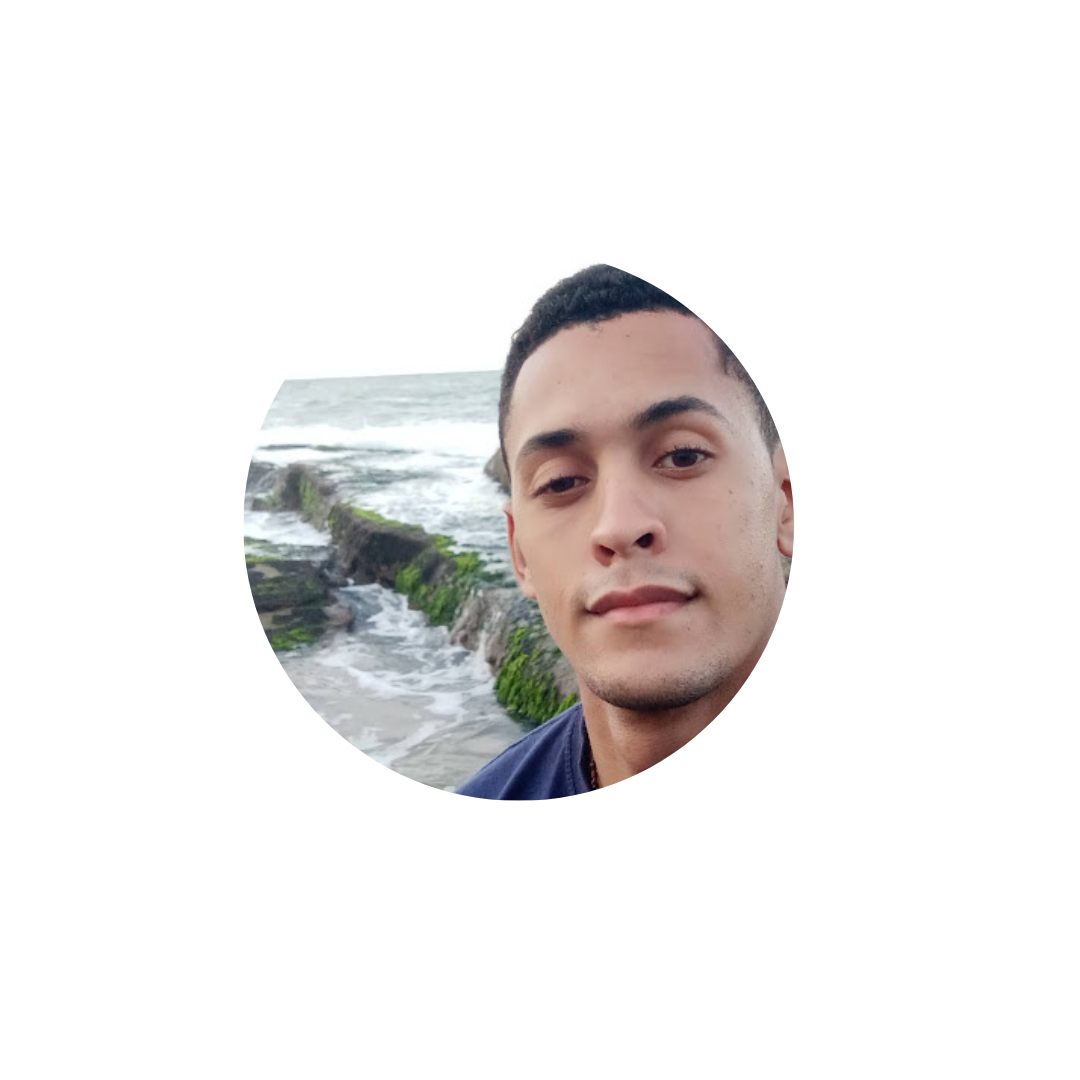
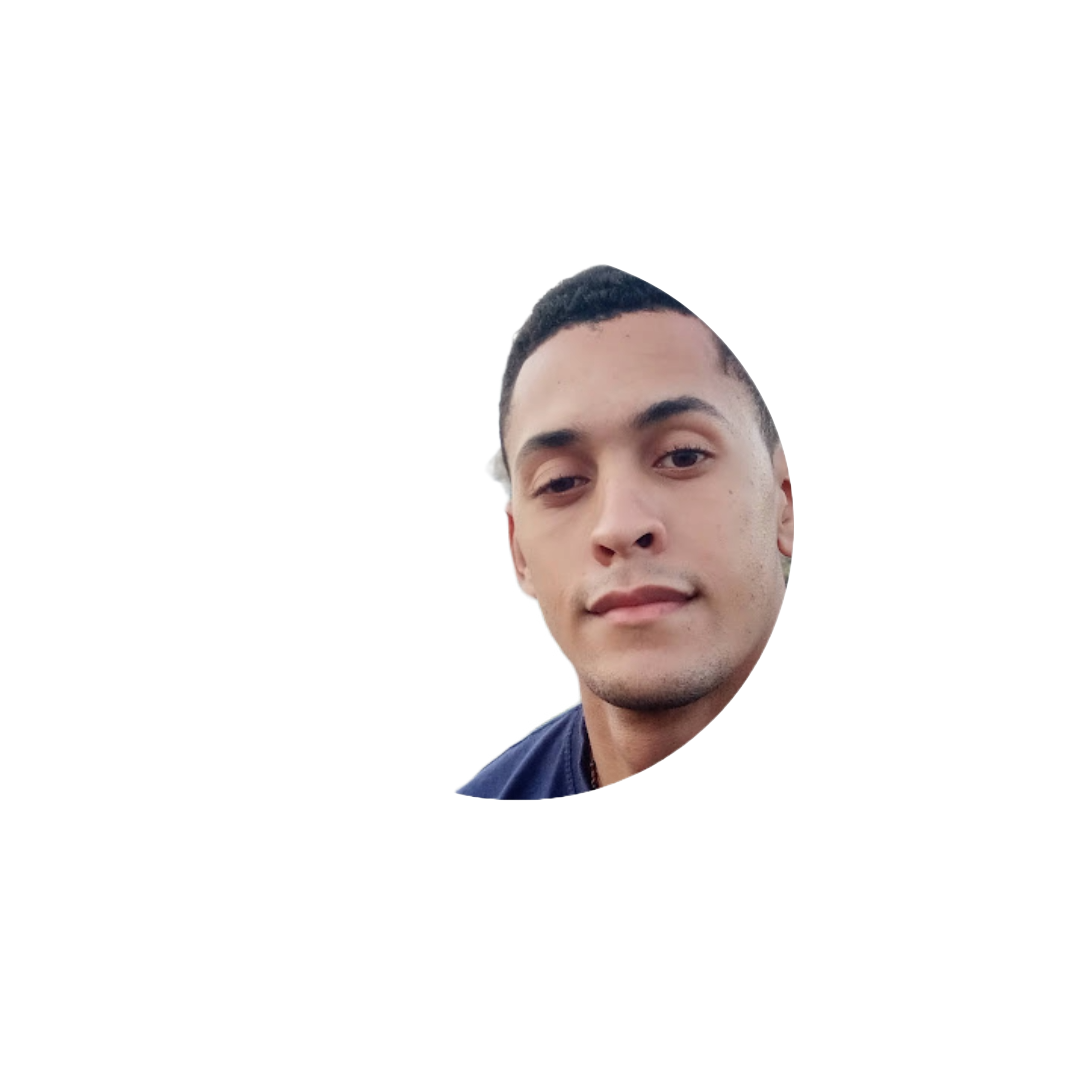
Add files via upload

Changed region(s): [[0.2139, 0.3361, 0.55, 0.7333]]

diff --git a/Curriculo/curriculoprofissional.html b/Curriculo/curriculoprofissional.html
@@ -4,9 +4,27 @@
     <link rel="stylesheet" href="style.css">
     <meta charset="UTF-8">
     <meta name="viewport" content="width=device-width, initial-scale=1.0">
-    <title>Document</title>
+    <title>Currículo Profissional</title>
 </head>
-<body>
-    
+<body class="cor">
+    <div class="cabecalho">
+        <img src="imagens/minhafoto.png" alt="Foto de um homem alto e lindo com o mar de plano de fundo">
+        <div class="informacoespessoais">
+        
+            <h1 class="nome">Gustavo Coutinho</h1>
+        
+            <ul>
+            
+                <li>
+                
+                    <p>Telefone: 61 986112051 | Email: guinaciodeoliveira@yahoo.com.br</p>
+            
+                </li>
+        
+            </ul>
+      
+        </div>
+
+    </div>
 </body>
 </html>

diff --git a/Curriculo/style.css b/Curriculo/style.css
@@ -64,8 +64,34 @@ div img {
     gap: 20px;
 }
 
+.cabecalho {
+    display: flex;
+    justify-content: center;
+    
+    
+    
+}
+
+.cabecalho img{
+    position: absolute;
+    right: 1000px;
+    top: -20px;
+    height: auto;
+    width: 200px;
+
+
+}
+
+.informacoespessoais {
+    position: inherit;
+    justify-content: center;
+}
 /* Começo da fomatação do body */
 
 .cinza {
     background-color: #f0f0f0;
+}
+
+.cor {
+    background-color: #d9d9d9;
 }
